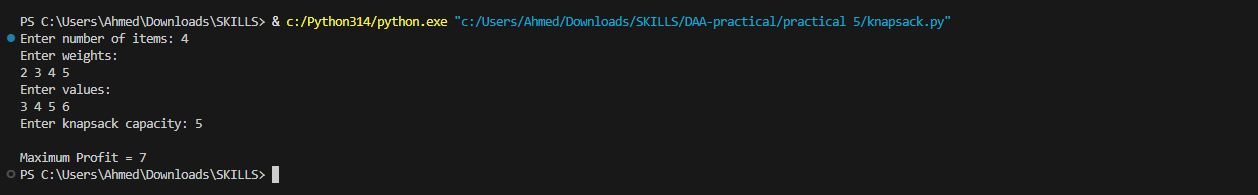
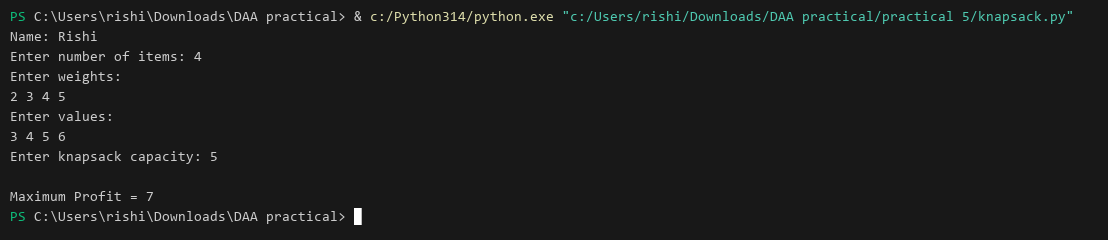
Remove author header and update terminal output images to Rishi

Changed region(s): [[0.0, 0.0308, 0.9819, 0.5846], [0.0, 0.7692, 0.3375, 0.9538], [0.0, 0.6154, 0.2148, 0.6769]]

diff --git a/practical 6/matrix_chain_multiplication.py b/practical 6/matrix_chain_multiplication.py
@@ -1,6 +1,5 @@
 """
 Matrix Chain Multiplication (Dynamic Programming)
-Author: Rishi
 
 Time Complexity: O(n^3)
 

diff --git a/practical 5/knapsack.py b/practical 5/knapsack.py
@@ -1,6 +1,5 @@
 """
 0/1 Knapsack Problem (Dynamic Programming)
-Author: Rishi
 
 Time Complexity: O(n * W)
 
